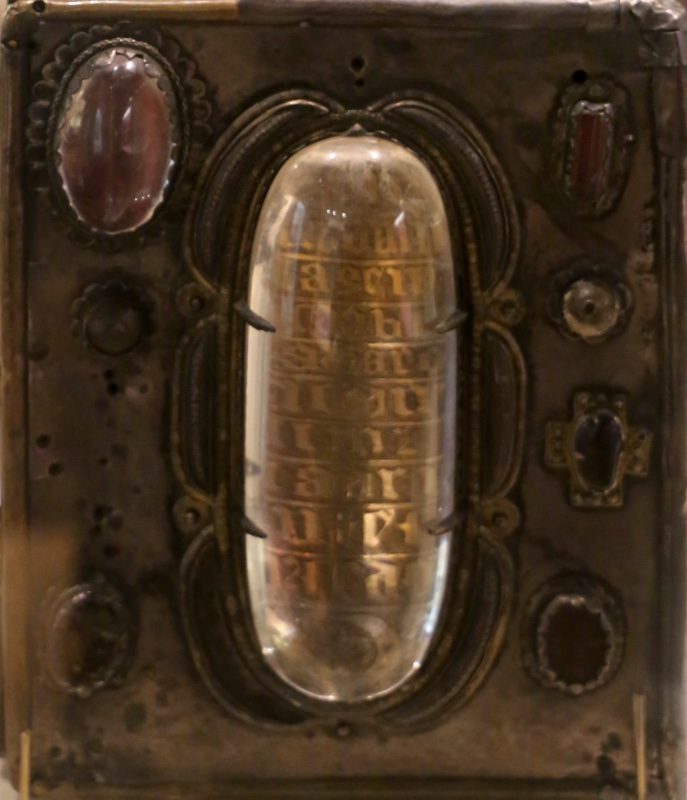
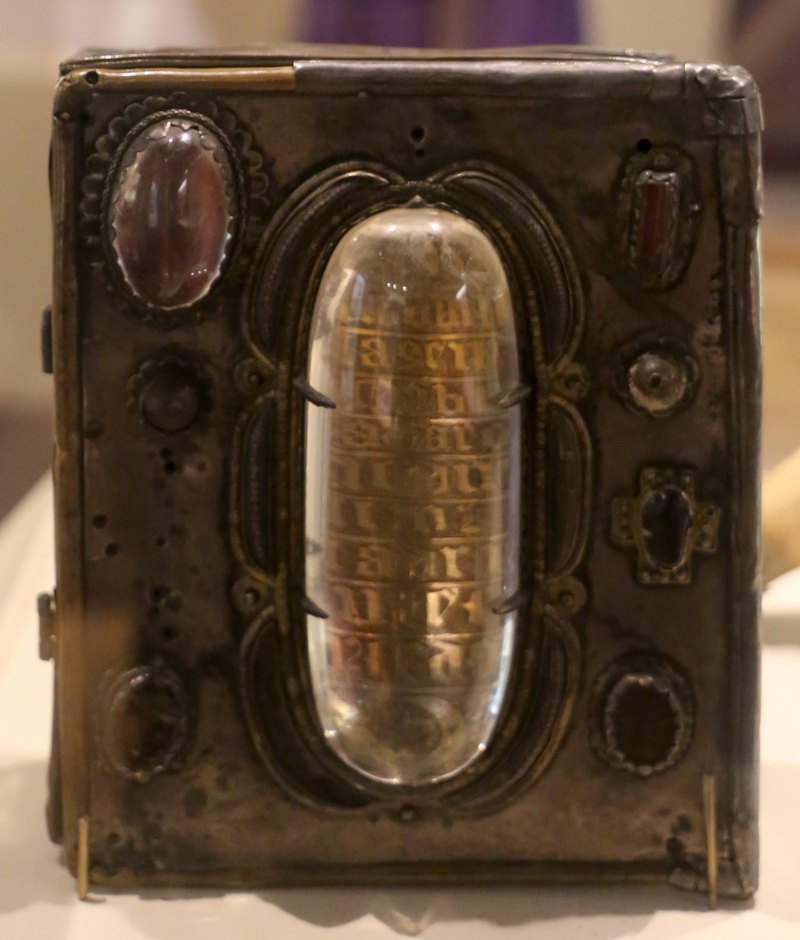
Book of Mulling: shrine image credited (Sailko, CC BY 3.0), with zoom [skip notices]

diff --git a/Content/Codex/Book-of-Mulling.md b/Content/Codex/Book-of-Mulling.md
@@ -247,8 +247,8 @@ In both, cult and community were ready to read a signature as the mark of the sa
 ## The Cumdach: The Shrine of the Book of Mulling
 
 <figure>
-  <img src="/Images/Book-of-Mulling/book-of-mulling-shrine.jpg" alt="Front face of the medieval book-shrine of the Book of Mulling: a rectangular metal box with worn silver surface, dominated by a large polished oval rock crystal held by dark claw mounts at the centre; rows of gilt Gothic lettering on silver foil are visible magnified through the crystal. Around it are several smaller settings — dark red and brown oval polished stones in decorated mounts, a small cross-shaped fitting and plain bosses — framed by twisted rope-like mouldings, with dents and losses at the corners. The shrine stands on a pale surface in a museum display">
-  <figcaption>Shrine (cumdach) of the Book of Mulling, from St Mullins, Co. Carlow; principal phase c. 1402, with settings added at various later dates. The box is built of copper-alloy sheets partly covered with silver and, unlike the shrine of the Book of Dimma, is ornamented on its front face only, which carries a deliberately heterogeneous display of eight settings accumulated over the object's history — polished oval cabochons in collared mounts, a small cross-shaped setting, and plain bosses, framed by rope-twist mouldings.</figcaption>
+  <img src="/Images/Book-of-Mulling/book-of-mulling-shrine.jpg" data-zoom-src="/Images/Book-of-Mulling/book-of-mulling-shrine-zoom.jpg" alt="Front face of the medieval book-shrine of the Book of Mulling: a rectangular metal box with worn silver surface, dominated by a large polished oval rock crystal held by dark claw mounts at the centre; rows of gilt Gothic lettering on silver foil are visible magnified through the crystal. Around it are several smaller settings — dark red and brown oval polished stones in decorated mounts, a small cross-shaped fitting and plain bosses — framed by twisted rope-like mouldings, with dents and losses at the corners. The shrine stands on a pale surface in a museum display">
+  <figcaption>Shrine (cumdach) of the Book of Mulling, from St Mullins, Co. Carlow; principal phase c. 1402, with settings added at various later dates. The box is built of copper-alloy sheets partly covered with silver and, unlike the shrine of the Book of Dimma, is ornamented on its front face only, which carries a deliberately heterogeneous display of eight settings accumulated over the object's history — polished oval cabochons in collared mounts, a small cross-shaped setting, and plain bosses, framed by rope-twist mouldings. Photo: Sailko, <a href="https://creativecommons.org/licenses/by/3.0/deed.en">CC BY 3.0</a>, via Wikimedia Commons.</figcaption>
 </figure>
 
 Like several of the most venerated Irish books, the Book of Mulling was preserved for much of its life not as a bound volume on a shelf but as a relic sealed inside a metal cumdach, or book-shrine — and the shrine survives. It is a box constructed of copper-alloy sheets partly covered with silver, and, unlike the shrine of the Book of Dimma, which is decorated on all its faces, the Mulling shrine is ornamented only on its front. That front carries a deliberately heterogeneous display: eight settings made at different times in the object's history, accumulated rather than designed, so that the shrine's face is itself a kind of stratigraphy of devotion.
